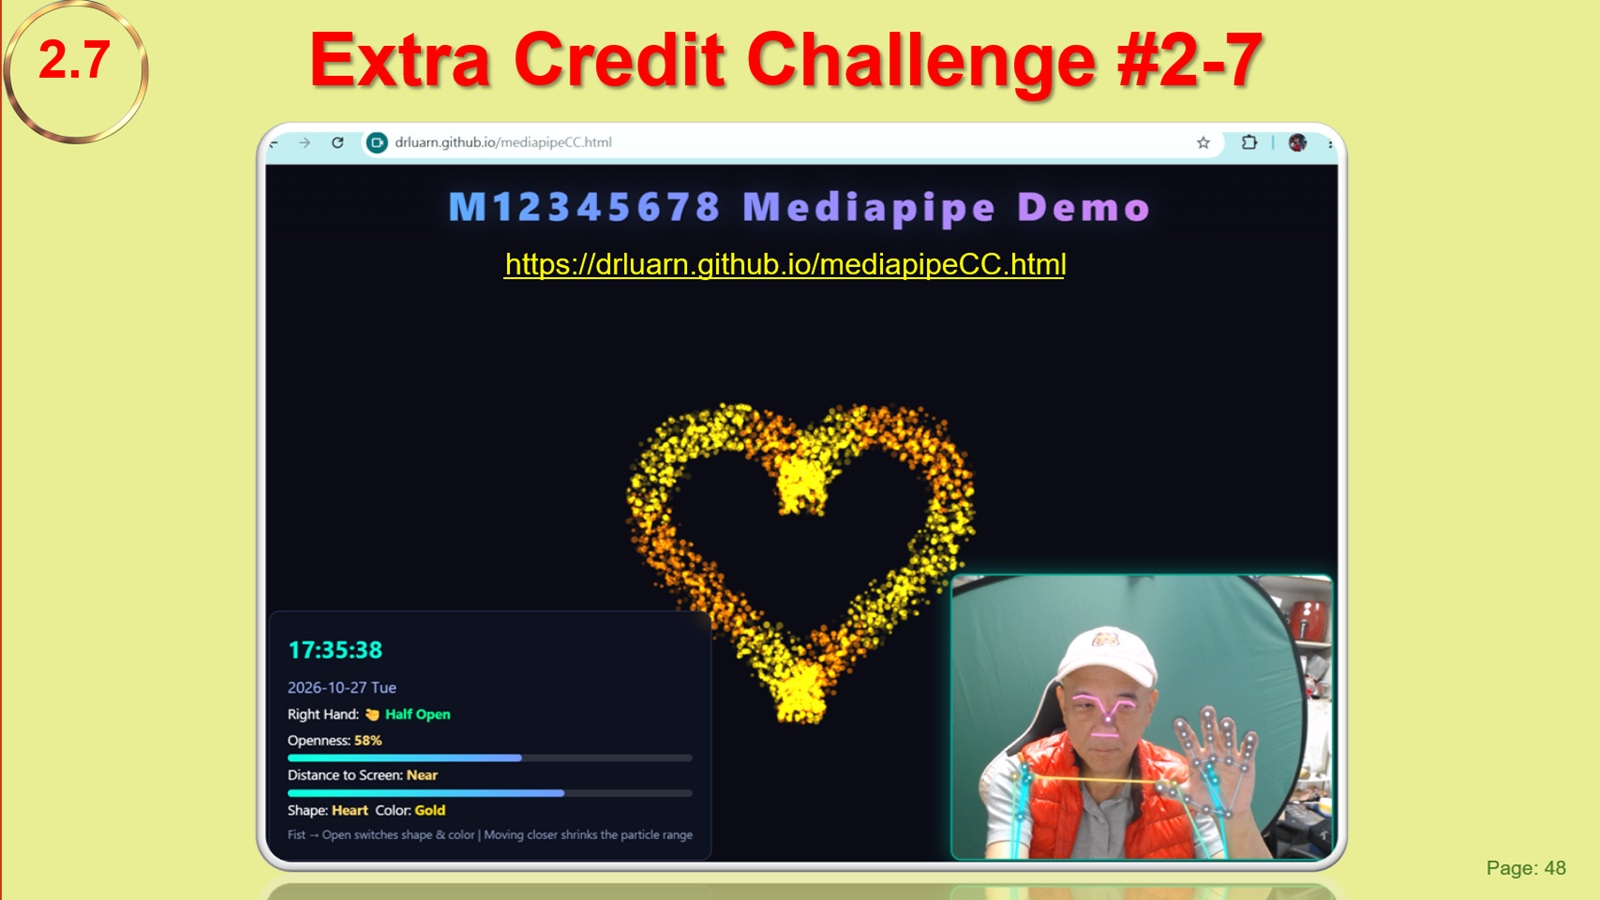
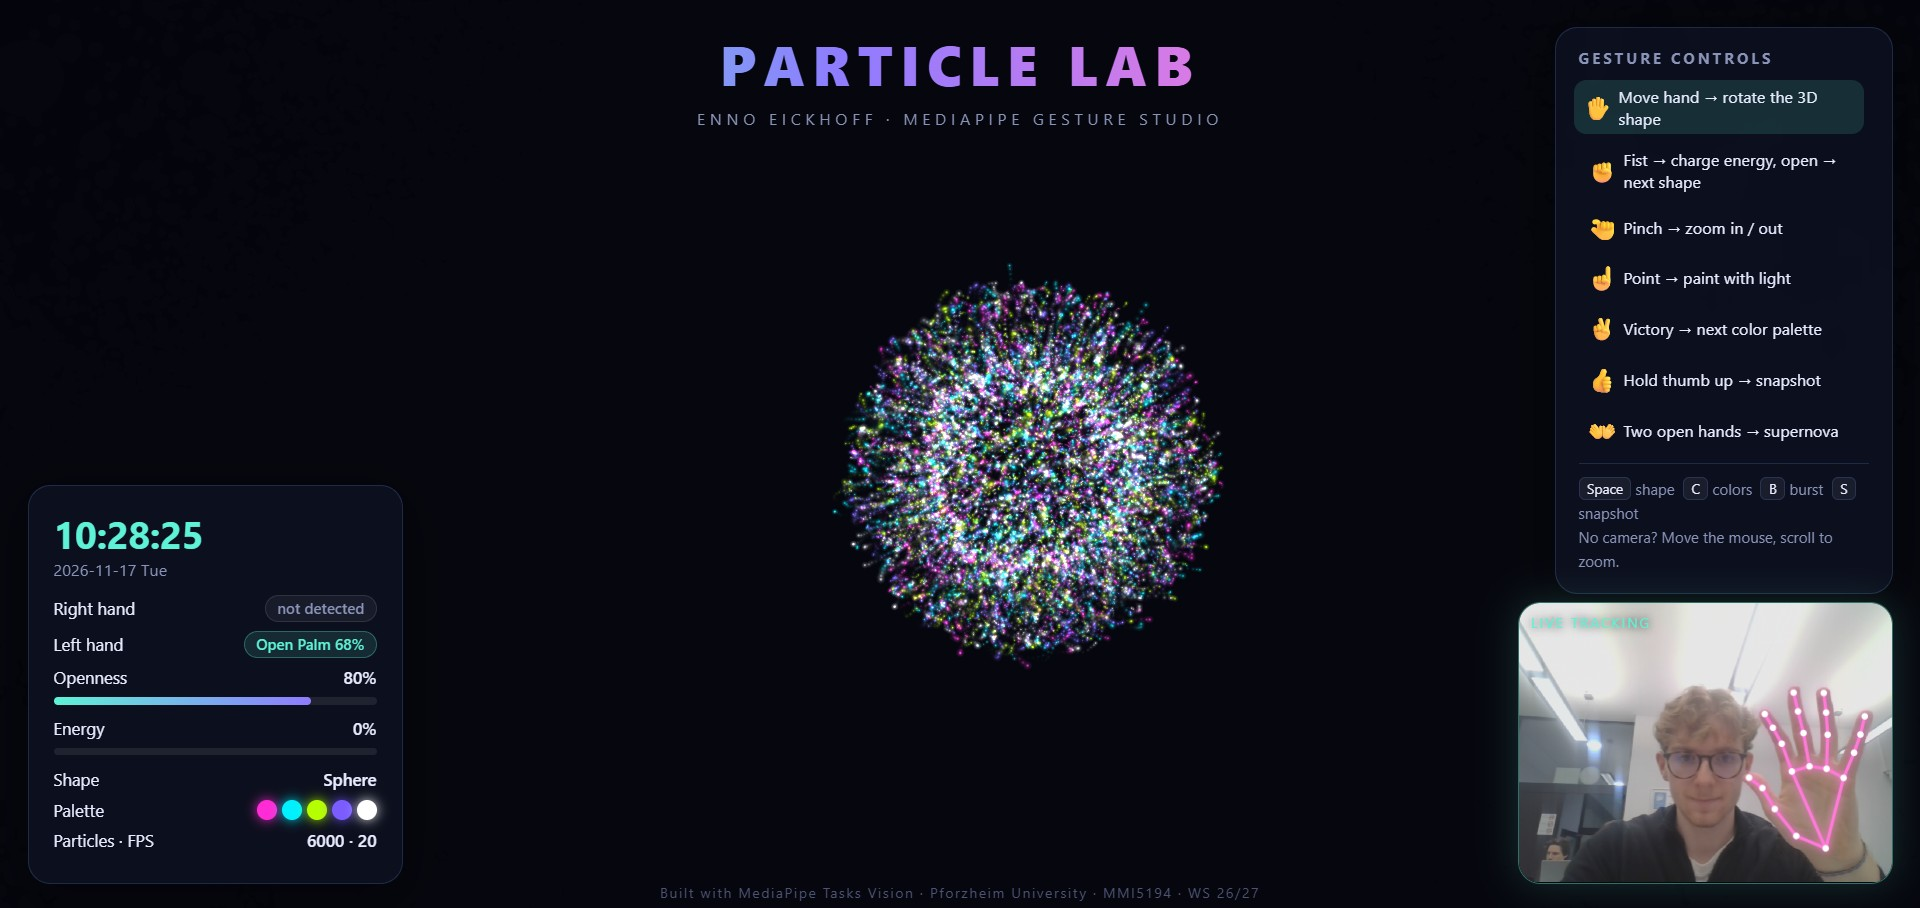
Add Unit 2.7 screenshot, fix left/right hand labels in Particle Lab
Claude-Session: https://claude.ai/code/session_01J4RPBqVfchbRB2xkKkQNiJ

diff --git a/particle-lab.html b/particle-lab.html
@@ -392,13 +392,11 @@ function handleHands(res) {
   for (let i = 0; i < res.landmarks.length; i++) {
     hands.push({
       lm: res.landmarks[i],
-      side: res.handedness[i]?.[0]?.categoryName || "Right",     // camera-mirrored -> matches the user's hand in selfie view
+      side: res.handedness[i]?.[0]?.categoryName || "Right",     // matches the user's real hand (verified with webcam)
       gesture: res.gestures[i]?.[0]?.categoryName || "None",
       score: res.gestures[i]?.[0]?.score || 0,
     });
   }
-  // MediaPipe labels assume a mirrored image; our input is not mirrored, so swap
-  hands.forEach(h => (h.side = h.side === "Left" ? "Right" : "Left"));
   const right = hands.find(h => h.side === "Right"), left = hands.find(h => h.side === "Left");
   const main = right || left;
   setChip("rh", right ? `${right.gesture.replace("_", " ")} ${Math.round(right.score * 100)}%` : "");
@@ -463,7 +461,7 @@ function drawOverlay(res) {
   ov.width = ov.clientWidth * DPR; ov.height = ov.clientHeight * DPR;
   const w = ov.width, h = ov.height; octx.clearRect(0, 0, w, h);
   res.landmarks.forEach((lm, i) => {
-    const side = res.handedness[i]?.[0]?.categoryName === "Left" ? "Right" : "Left";
+    const side = res.handedness[i]?.[0]?.categoryName === "Left" ? "Left" : "Right";
     const col = side === "Right" ? "#5ef2d6" : "#ff7ad9";
     octx.strokeStyle = col; octx.lineWidth = 2.5 * DPR; octx.shadowColor = col; octx.shadowBlur = 8;
     for (const [a, b] of HAND_LINKS) { octx.beginPath(); octx.moveTo(lm[a].x * w, lm[a].y * h); octx.lineTo(lm[b].x * w, lm[b].y * h); octx.stroke(); }
